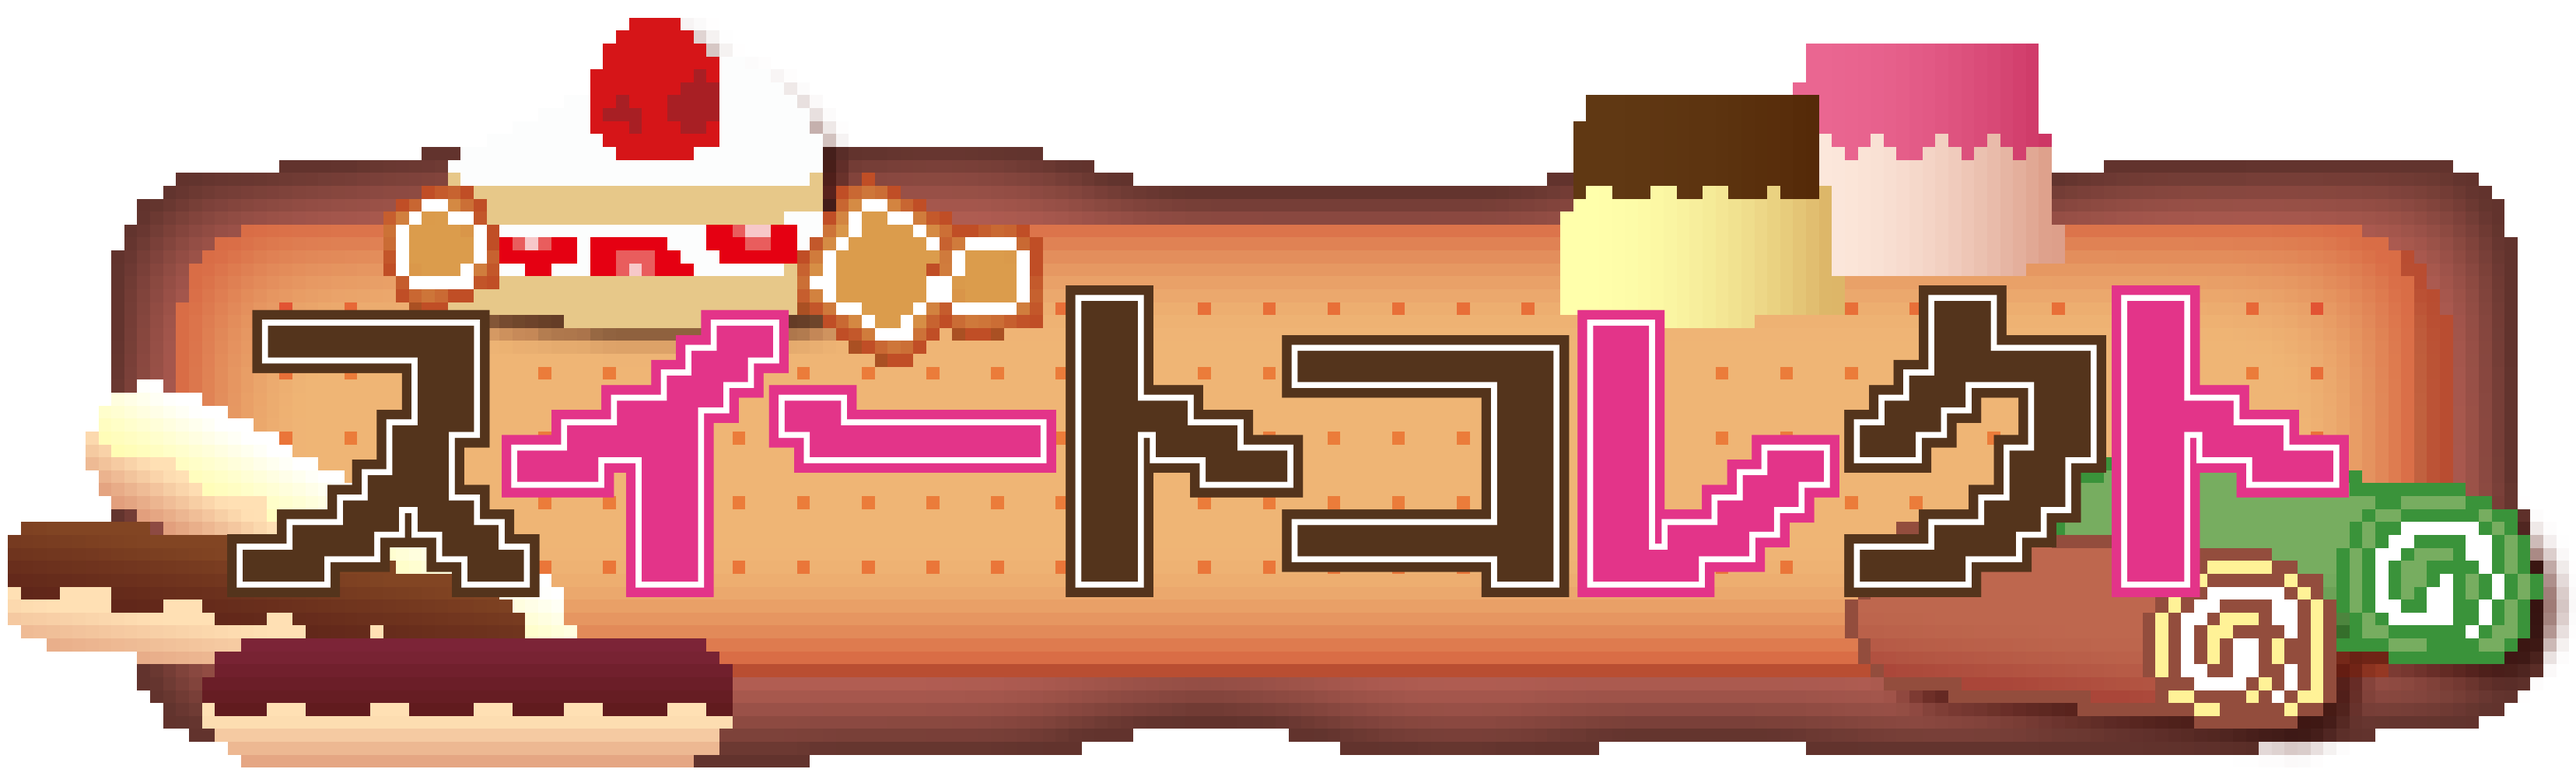
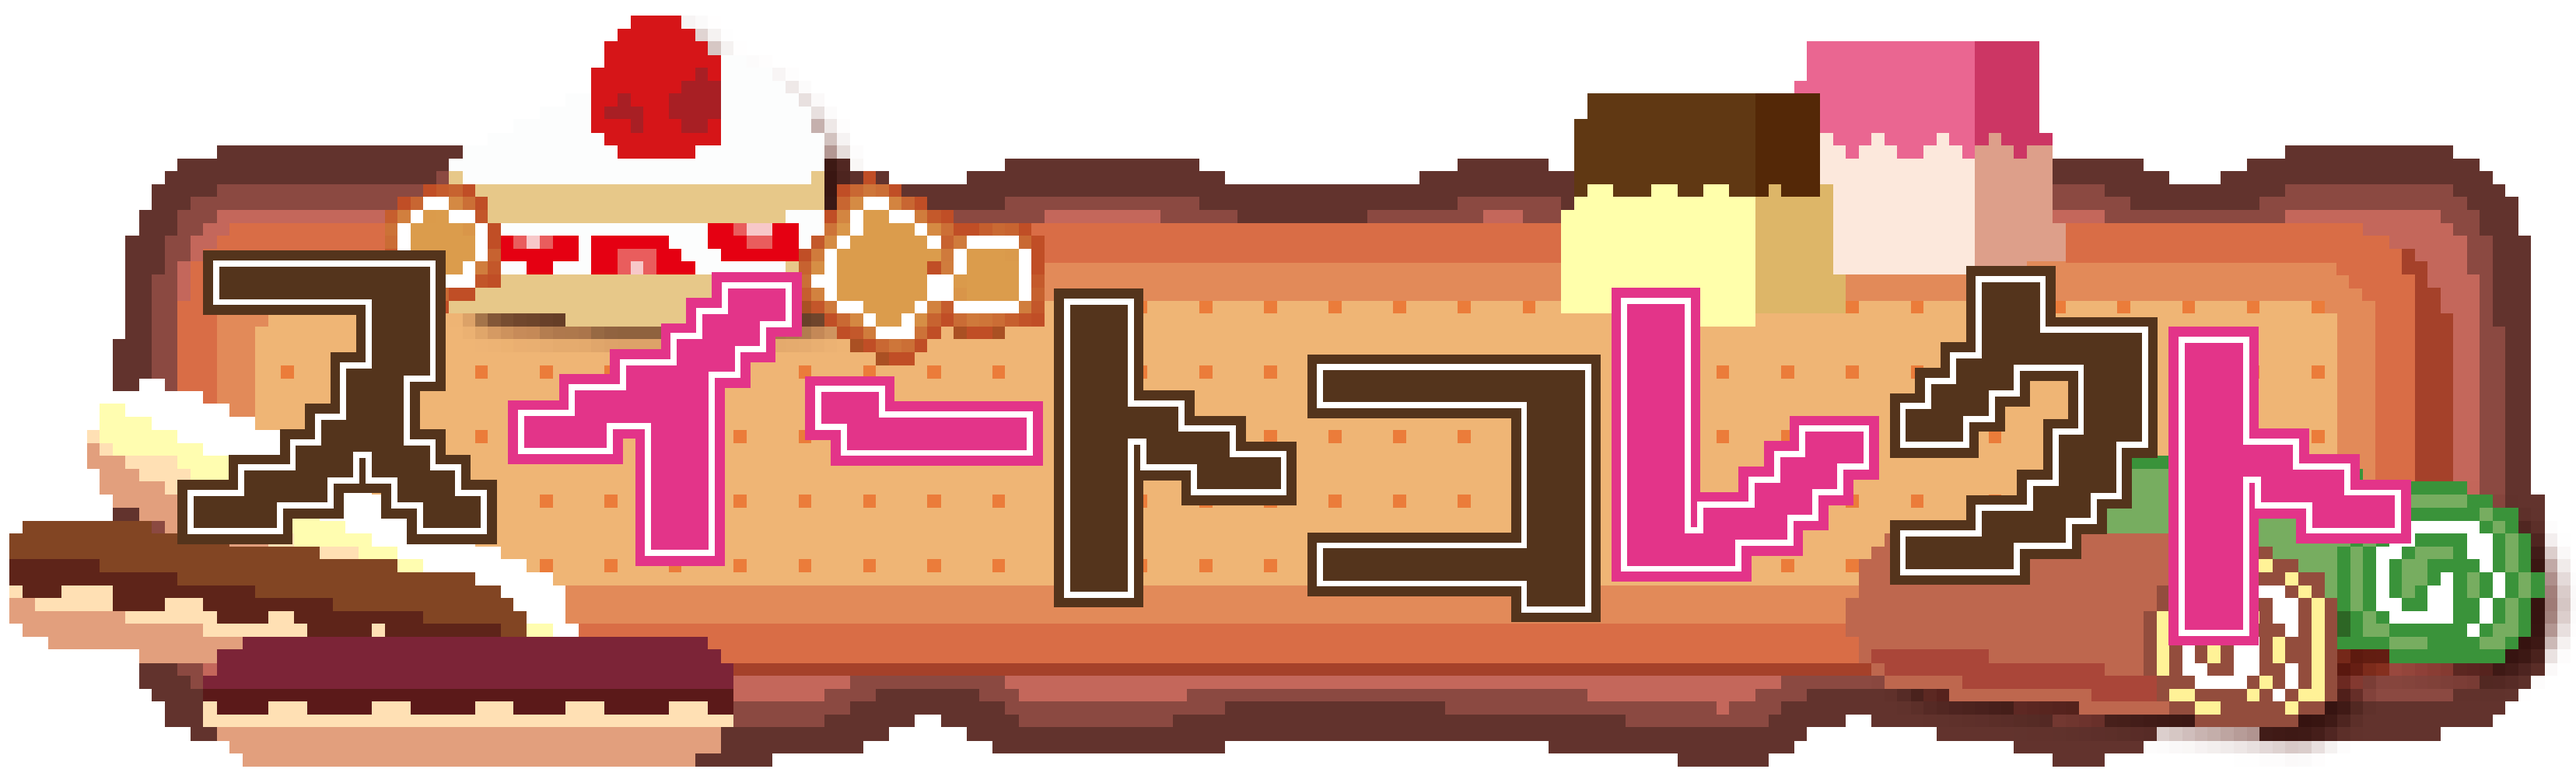
〇PlayFabPlayerDataの中身を連想配列で管理するように変更。 ・それに伴い各オブジェクト名やデータへのアクセス方法を変更した。 ・PlayFabPlayerDataのキー名を専用のクラスで定数管理するように変更。 〇背景更新
〇チュートリアルシーンのプレイヤーの着替え機能を削除。

Changed region(s): [[0.0311, 0.1553, 1.0, 0.994], [0.0, 0.7455, 0.0933, 0.8697], [0.9641, 0.8076, 0.9952, 0.8387]]

diff --git a/Project/test2D/Assets/PlayFabScript/PlayFabPlayerData.cs b/Project/test2D/Assets/PlayFabScript/PlayFabPlayerData.cs
@@ -5,8 +5,8 @@ using System.Collections.Generic;
 
 public class PlayFabPlayerData : MonoBehaviour
 {
-    [SerializeField] string DataName = "";
-    public string m_Value { get; private set; }
+    // 受信した全データ
+    public Dictionary<string, UserDataRecord> m_Data { get; private set; } = default;
 
     private PlayFabLogin m_PlayFabLogin = null;
     private PlayFabAutoRequest m_AutoRequest = null;
@@ -20,7 +20,6 @@ public class PlayFabPlayerData : MonoBehaviour
         m_WaitConnect = playFabManager.GetComponent<PlayFabWaitConnect>();
         m_AutoRequest = GetComponent<PlayFabAutoRequest>();
         m_isGet = false;
-        m_Value = "";
     }
     public void Update()
     {
@@ -34,8 +33,9 @@ public class PlayFabPlayerData : MonoBehaviour
     /// <summary>
     /// ユーザーデータの更新
     /// </summary>
+    /// <param name="dataname">データ名</param>
     /// <param name="data">データ内容</param>
-    public void SetPlayerData(string data)
+    public void SetPlayerData(string dataname,string data)
     {
         // 通信待ちでなかったら通信開始
         if (!m_WaitConnect.GetWait(transform))
@@ -45,7 +45,7 @@ public class PlayFabPlayerData : MonoBehaviour
 
             var change = new Dictionary<string, string>
             {
-                { DataName, data }
+                { dataname, data }
             };
             PlayFabClientAPI.UpdateUserData(new UpdateUserDataRequest
             {
@@ -53,7 +53,8 @@ public class PlayFabPlayerData : MonoBehaviour
             }, result =>
             {
                 Debug.Log("ユーザーデータの更新に成功");
-                m_Value = data;
+
+                m_Data[dataname].Value = data;
 
                 // 通信終了
                 m_WaitConnect.SetWait(transform, false);
@@ -71,7 +72,7 @@ public class PlayFabPlayerData : MonoBehaviour
     /// ユーザーデータの取得
     /// </summary>
     /// <param name="name">データ名</param>
-    public void GetUserData()
+    private void GetUserData()
     {
         // 通信待ちでなかったら通信開始
         if (!m_WaitConnect.GetWait(transform))
@@ -85,11 +86,11 @@ public class PlayFabPlayerData : MonoBehaviour
             }, result =>
             {
                 m_isGet = true;
+                m_Data = result.Data;
                 // 通信終了
                 m_WaitConnect.SetWait(transform, false);
 
-                Debug.Log(result.Data[DataName].Value);
-                m_Value = result.Data[DataName].Value;
+                Debug.Log("ユーザーデータの取得に成功");
             }, error =>
             {
                 Debug.Log(error.GenerateErrorReport());

diff --git a/Project/test2D/Assets/GameManager/TitleManager.cs b/Project/test2D/Assets/GameManager/TitleManager.cs
@@ -5,7 +5,7 @@ public class TitleManager : BaseScene
 {
     [SerializeField] GameObject textBox = null;
     [SerializeField] string defaultPlayerName = "ななしさん";
-    private PlayFabPlayerData m_PlayFabEClothesData = null;
+    private PlayFabPlayerData m_PlayPlayerData = null;
     private PlayFabUserProfiel m_PlayFabUserProfiel = null;
     private PlayFabPlayerData m_PlayFabTutorialData = null;
     private PlayFabInventory m_PlayFabInventory = null;
@@ -26,9 +26,8 @@ public class TitleManager : BaseScene
         SoundManager.Instance.PlayBGM("MainGame");
 
         GameObject PlayFabManager = GameObject.Find("PlayFabManager");
-        m_PlayFabEClothesData = PlayFabManager.transform.Find("PlayFabEclothesData").GetComponent<PlayFabPlayerData>();
+        m_PlayPlayerData = PlayFabManager.transform.Find("PlayFabPlayerData").GetComponent<PlayFabPlayerData>();
         m_PlayFabUserProfiel = PlayFabManager.transform.Find("PlayFabUserProfiel").GetComponent<PlayFabUserProfiel>();
-        m_PlayFabTutorialData = PlayFabManager.transform.Find("PlayFabTutorialData").GetComponent<PlayFabPlayerData>();
         m_PlayFabInventory = PlayFabManager.transform.Find("PlayFabInventory").GetComponent<PlayFabInventory>();
         m_PlayFabStore = PlayFabManager.transform.Find("PlayFabStore").GetComponent<PlayFabStore>();
         m_WaitConnect = PlayFabManager.GetComponent<PlayFabWaitConnect>();
@@ -102,9 +101,9 @@ public class TitleManager : BaseScene
                 m_PlayFabUserProfiel.SetUserName(textBox.GetComponent<InputField>().text);
 
                 // ユーザーデータを取得できていなかったらデフォルトデータを設定しておく
-                if (!m_PlayFabEClothesData.m_isGet)
+                if (!m_PlayPlayerData.m_isGet || !m_PlayPlayerData.m_Data.ContainsKey(PlayerDataName.ECLOTHES))
                 {
-                    m_PlayFabEClothesData.SetPlayerData("001_NORAML");
+                    m_PlayPlayerData.SetPlayerData(PlayerDataName.ECLOTHES, "001_NORAML");
                 }
                 // 通常の服を持っていなかったらストアから購入する
                 if (!m_PlayFabInventory.IsHaveItem("001_NORMAL"))
@@ -124,7 +123,7 @@ public class TitleManager : BaseScene
         // チュートリアル終了済みでなかったらチュートリアルへ飛ばす
         if (NextSceneName == "GameMainScene")
         {
-            if (m_PlayFabTutorialData.m_Value != "End")
+            if (m_PlayPlayerData.m_Data[PlayerDataName.TUTORIAL].Value != "End")
             {
                 NextSceneName = "TutorialScene";
             }

diff --git a/Project/test2D/Assets/UI/Shop/BuyAndWearButton.cs b/Project/test2D/Assets/UI/Shop/BuyAndWearButton.cs
@@ -9,7 +9,7 @@ public class BuyAndWearButton : MonoBehaviour
     [SerializeField] private PlayFabStore store = null;            //ストア
     [SerializeField] private PlayFabInventory inventory = null;    //インベントリ
     [SerializeField] private PlayFabWaitConnect connect = null;    //通信
-    [SerializeField] private PlayFabPlayerData AvatarData = null;  //プレイヤーデータ
+    [SerializeField] private PlayFabPlayerData playerData = null;  //プレイヤーデータ
 
     [SerializeField] private ShopCanvasController shop = null;
     [SerializeField] private Money_Text playermoney = null;
@@ -44,7 +44,7 @@ public class BuyAndWearButton : MonoBehaviour
         store = GameObject.Find("PlayFabStore").GetComponent<PlayFabStore>();
         inventory = GameObject.Find("PlayFabInventory").GetComponent<PlayFabInventory>();
         connect = GameObject.Find("PlayFabManager").GetComponent<PlayFabWaitConnect>();
-        AvatarData = GameObject.Find("PlayFabEclothesData").GetComponent<PlayFabPlayerData>();
+        playerData = GameObject.Find("PlayFabPlayerData").GetComponent<PlayFabPlayerData>();
         
         shop = this.transform.root.GetComponent<ShopCanvasController>();
         // ハードコーディングで可変に対応できない為コメントアウト
@@ -125,8 +125,7 @@ public class BuyAndWearButton : MonoBehaviour
                 }
                 else
                 {
-                    Debug.Log(shop.GetItemInfo().storeItem.ItemId + "は購入済みです");
-                    AvatarData.SetPlayerData(shop.GetItemInfo().catalogItem.ItemId);
+                    playerData.SetPlayerData(PlayerDataName.ECLOTHES, shop.GetItemInfo().catalogItem.ItemId);
                     Debug.Log(shop.GetItemInfo().catalogItem.ItemId + "を着用しました");
 
                     // プレイヤーの見た目更新

diff --git a/Project/test2D/Assets/Player/PlayerAvatar.cs b/Project/test2D/Assets/Player/PlayerAvatar.cs
@@ -4,15 +4,15 @@ using UnityEngine;
 
 public class PlayerAvatar : MonoBehaviour
 {
-    private PlayFabPlayerData m_AvatarData = null;
+    private PlayFabPlayerData m_PlayerData = null;
     private SpriteRenderer m_SpriteRenderer = null;
     public bool m_isAvatarChange { get; private set; }
     [SerializeField] PlayFabWaitConnect waitConnect = default;
 
     void Start()
     {
-        // 着用している衣服データを取得
-        m_AvatarData = GameObject.Find("PlayFabEclothesData").GetComponent<PlayFabPlayerData>();
+        // プレイヤーデータを取得
+        m_PlayerData = GameObject.Find("PlayFabPlayerData").GetComponent<PlayFabPlayerData>();
         m_SpriteRenderer = GetComponent<SpriteRenderer>();
         m_isAvatarChange = false;
     }
@@ -25,10 +25,11 @@ public class PlayerAvatar : MonoBehaviour
     {
         if (!m_isAvatarChange)
         {
-            // 通信待ちしていないかどうか。※一旦通信タイムアウトは考えない
+            // 通信待ちしていないかどうか。
             if (!waitConnect.IsWait())
             {
-                Sprite sprite = Resources.Load<Sprite>("Player\\" + m_AvatarData.m_Value);
+                // プレイヤーデータを取得して衣服を変更する
+                Sprite sprite = Resources.Load<Sprite>("Player\\" + m_PlayerData.m_Data[PlayerDataName.ECLOTHES].Value);
                 if (sprite)
                 {
                     m_SpriteRenderer.sprite = sprite;

diff --git a/Project/test2D/Assets/GameManager/TutrialSceneManager.cs b/Project/test2D/Assets/GameManager/TutrialSceneManager.cs
@@ -152,7 +152,7 @@ public class TutrialSceneManager : BaseScene
         {
             m_State = STATE.FADEOUT;
             fadeState = FADE_STATE.FADEOUT;
-            PlayerData.SetPlayerData("End");
+            PlayerData.SetPlayerData(PlayerDataName.TUTORIAL,"End");
         }
     }
 

diff --git a/Project/test2D/Assets/Utility/PlayerDataName.cs b/Project/test2D/Assets/Utility/PlayerDataName.cs
@@ -1,0 +1,10 @@
+using System.Collections;
+using System.Collections.Generic;
+using UnityEngine;
+
+// PlayFabのプレイヤーデータの定数
+public static class PlayerDataName
+{
+    public const string ECLOTHES = "EClothes";
+    public const string TUTORIAL = "Tutorial";
+}
